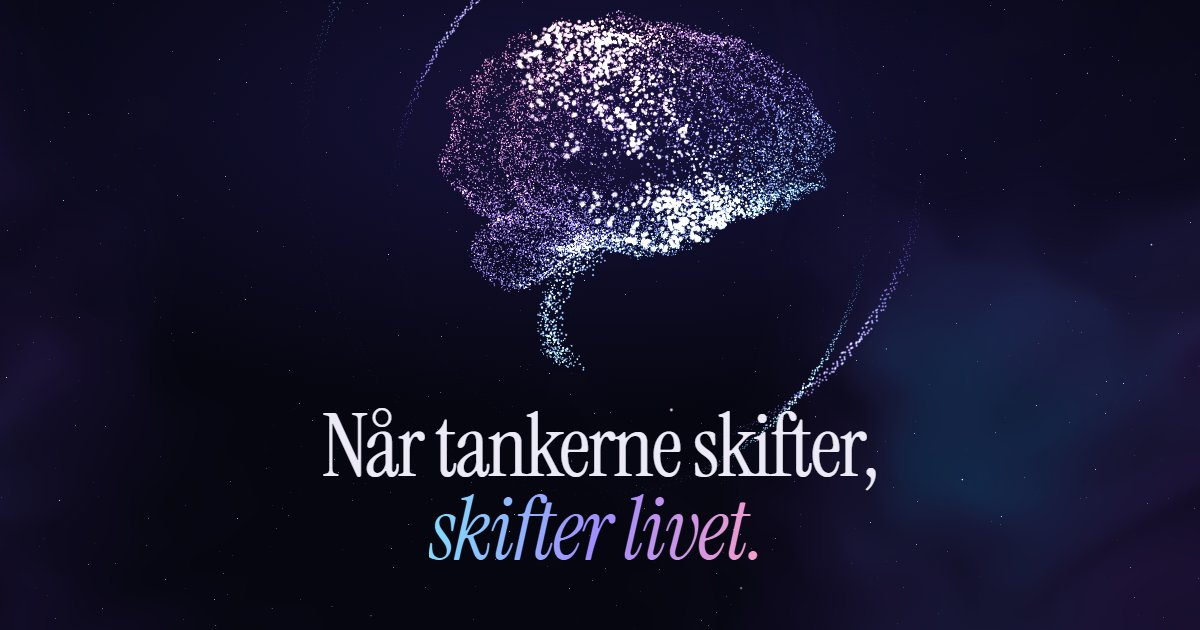
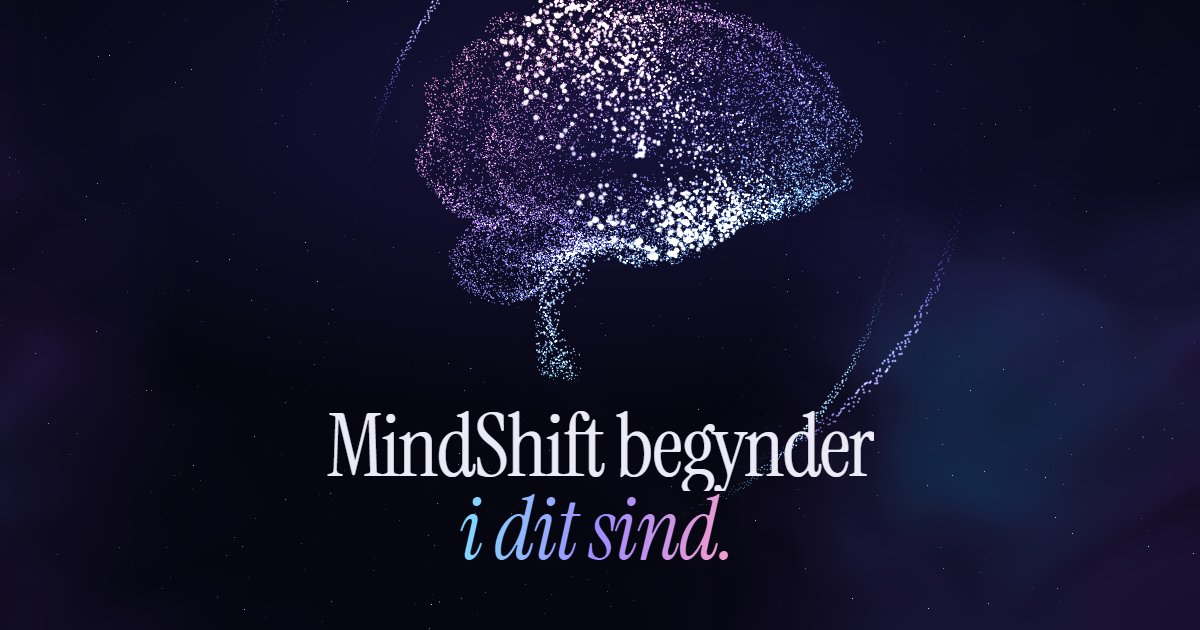
New headline: MindShift begynder i dit sind (page + share image)

Changed region(s): [[0.3392, 0.0, 0.7092, 0.6032], [0.2467, 0.4825, 0.7708, 0.9048]]

diff --git a/index.html b/index.html
@@ -9,7 +9,7 @@
 <meta property="og:type" content="website">
 <meta property="og:url" content="https://www.mindshiftcoach.dk/">
 <meta property="og:site_name" content="MindShiftCoach">
-<meta property="og:title" content="MindShiftCoach – Når tankerne skifter, skifter livet">
+<meta property="og:title" content="MindShiftCoach – MindShift begynder i dit sind">
 <meta property="og:description" content="NLP- og ICF-coaching med Meshaal Haider. I Valby eller online.">
 <meta property="og:image" content="https://www.mindshiftcoach.dk/og.jpg">
 <meta property="og:image:width" content="1200">
@@ -321,7 +321,7 @@
   <section class="hero">
     <div class="wrap">
       <div class="hero-bottom">
-        <h1><span class="ln"><span>Når tankerne skifter,</span></span><span class="ln"><span><em>skifter livet.</em></span></span></h1>
+        <h1><span class="ln"><span>MindShift begynder</span></span><span class="ln"><span><em>i dit sind.</em></span></span></h1>
         <div class="hero-side">
           <p>NLP- og ICF-coaching med Meshaal Haider. Et trygt rum til refleksion, indsigt og indre styrke – i Valby eller online.</p>
           <div class="btns">
